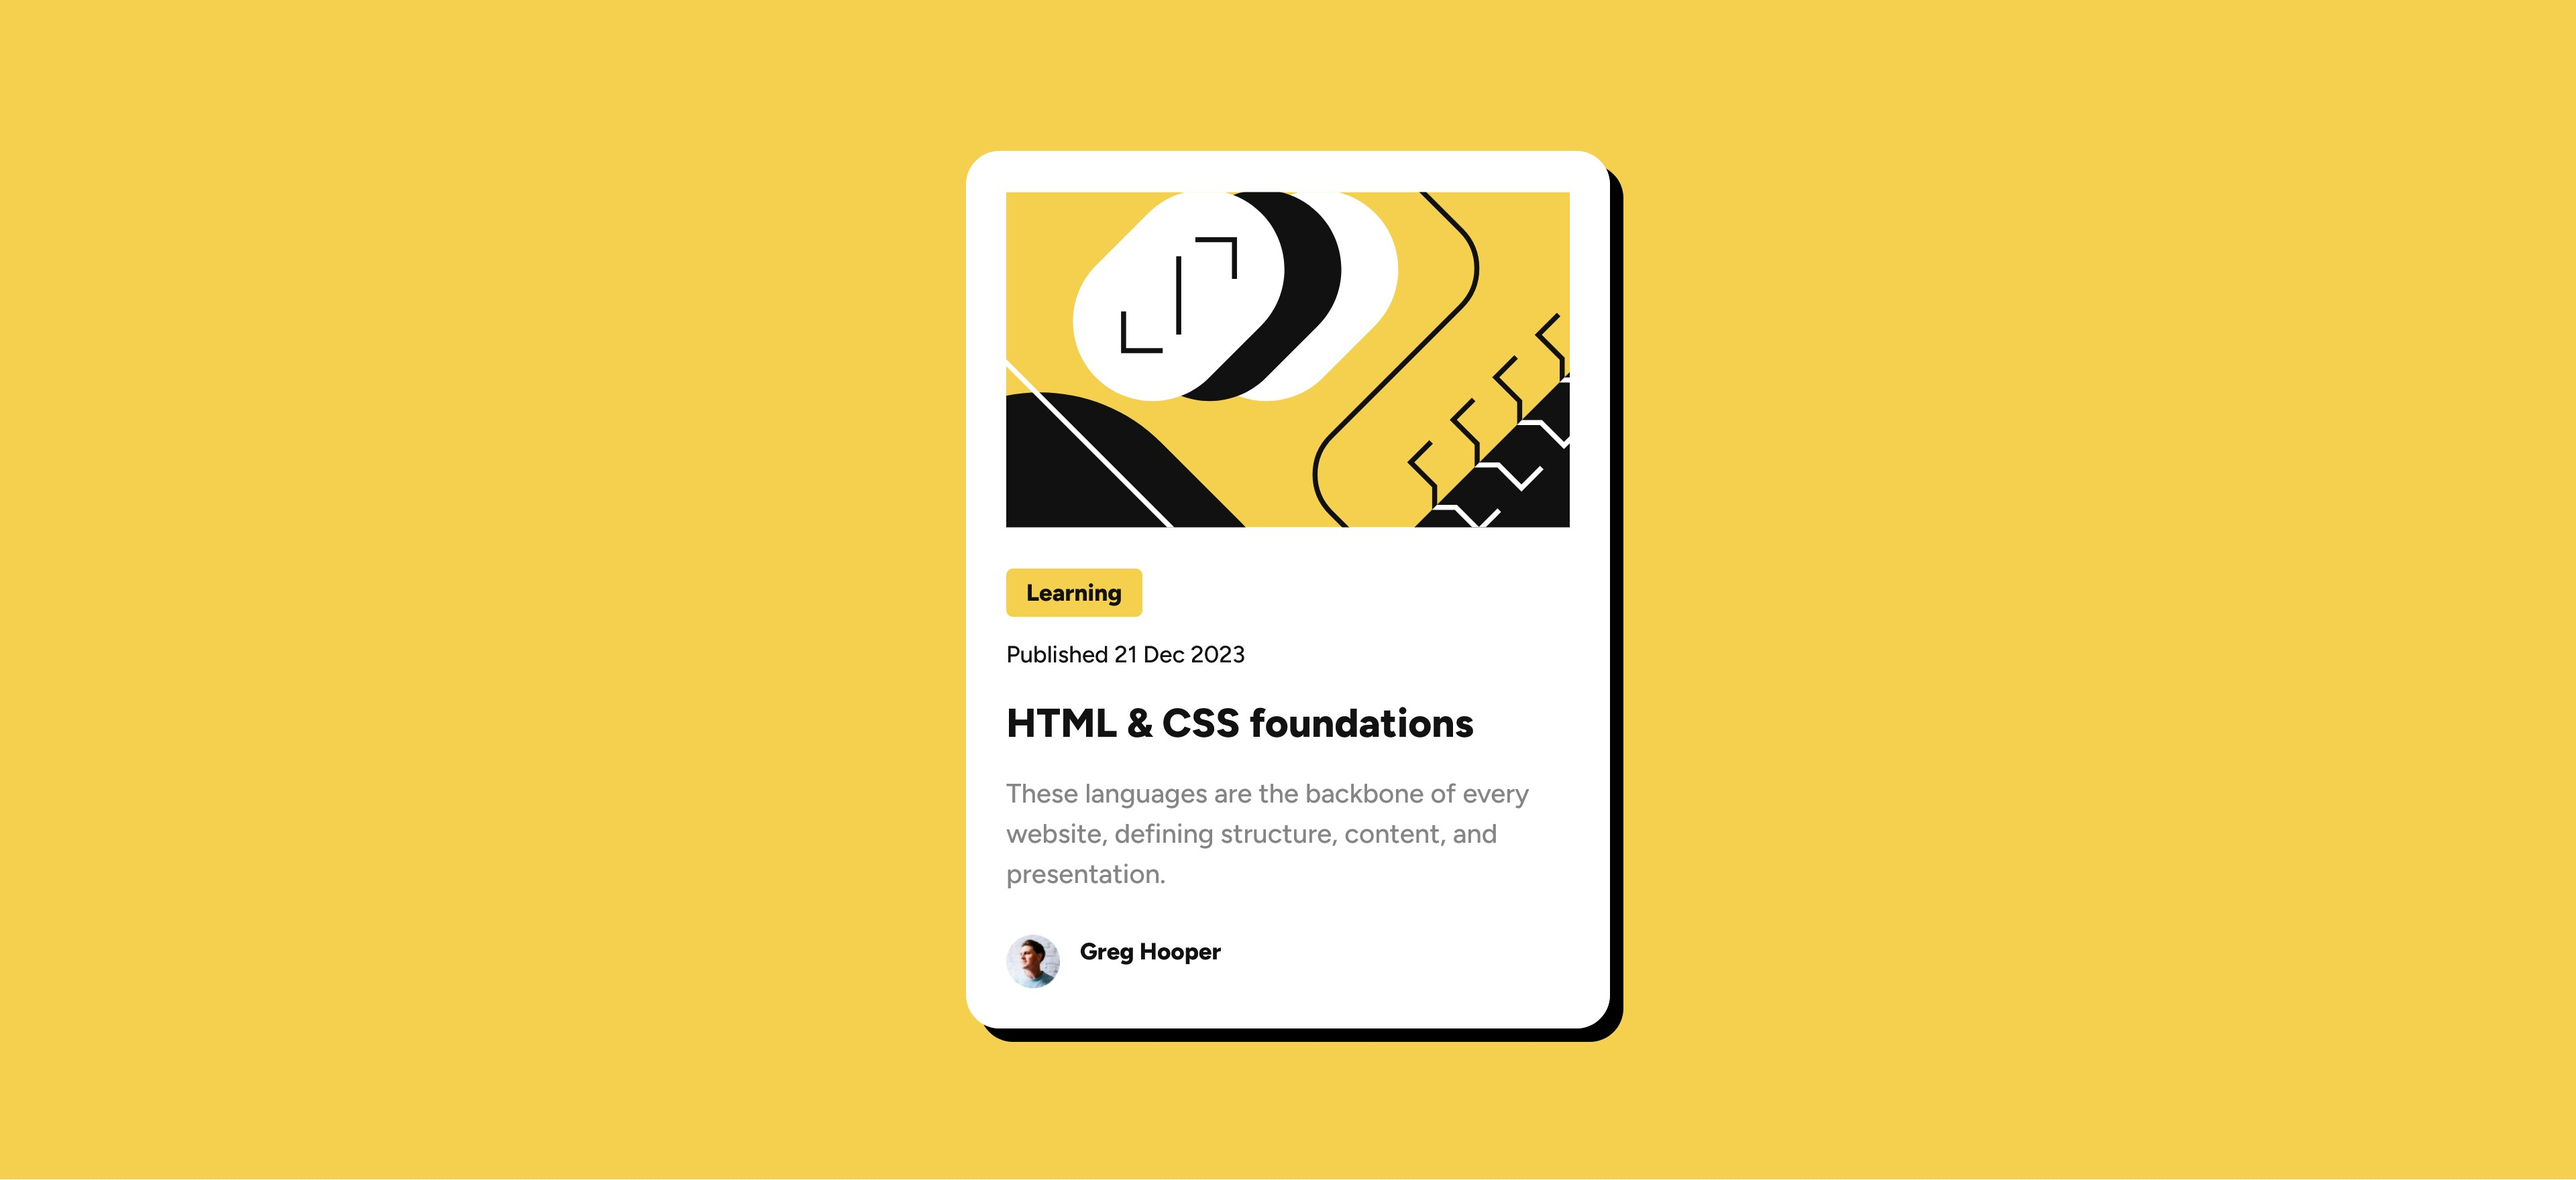
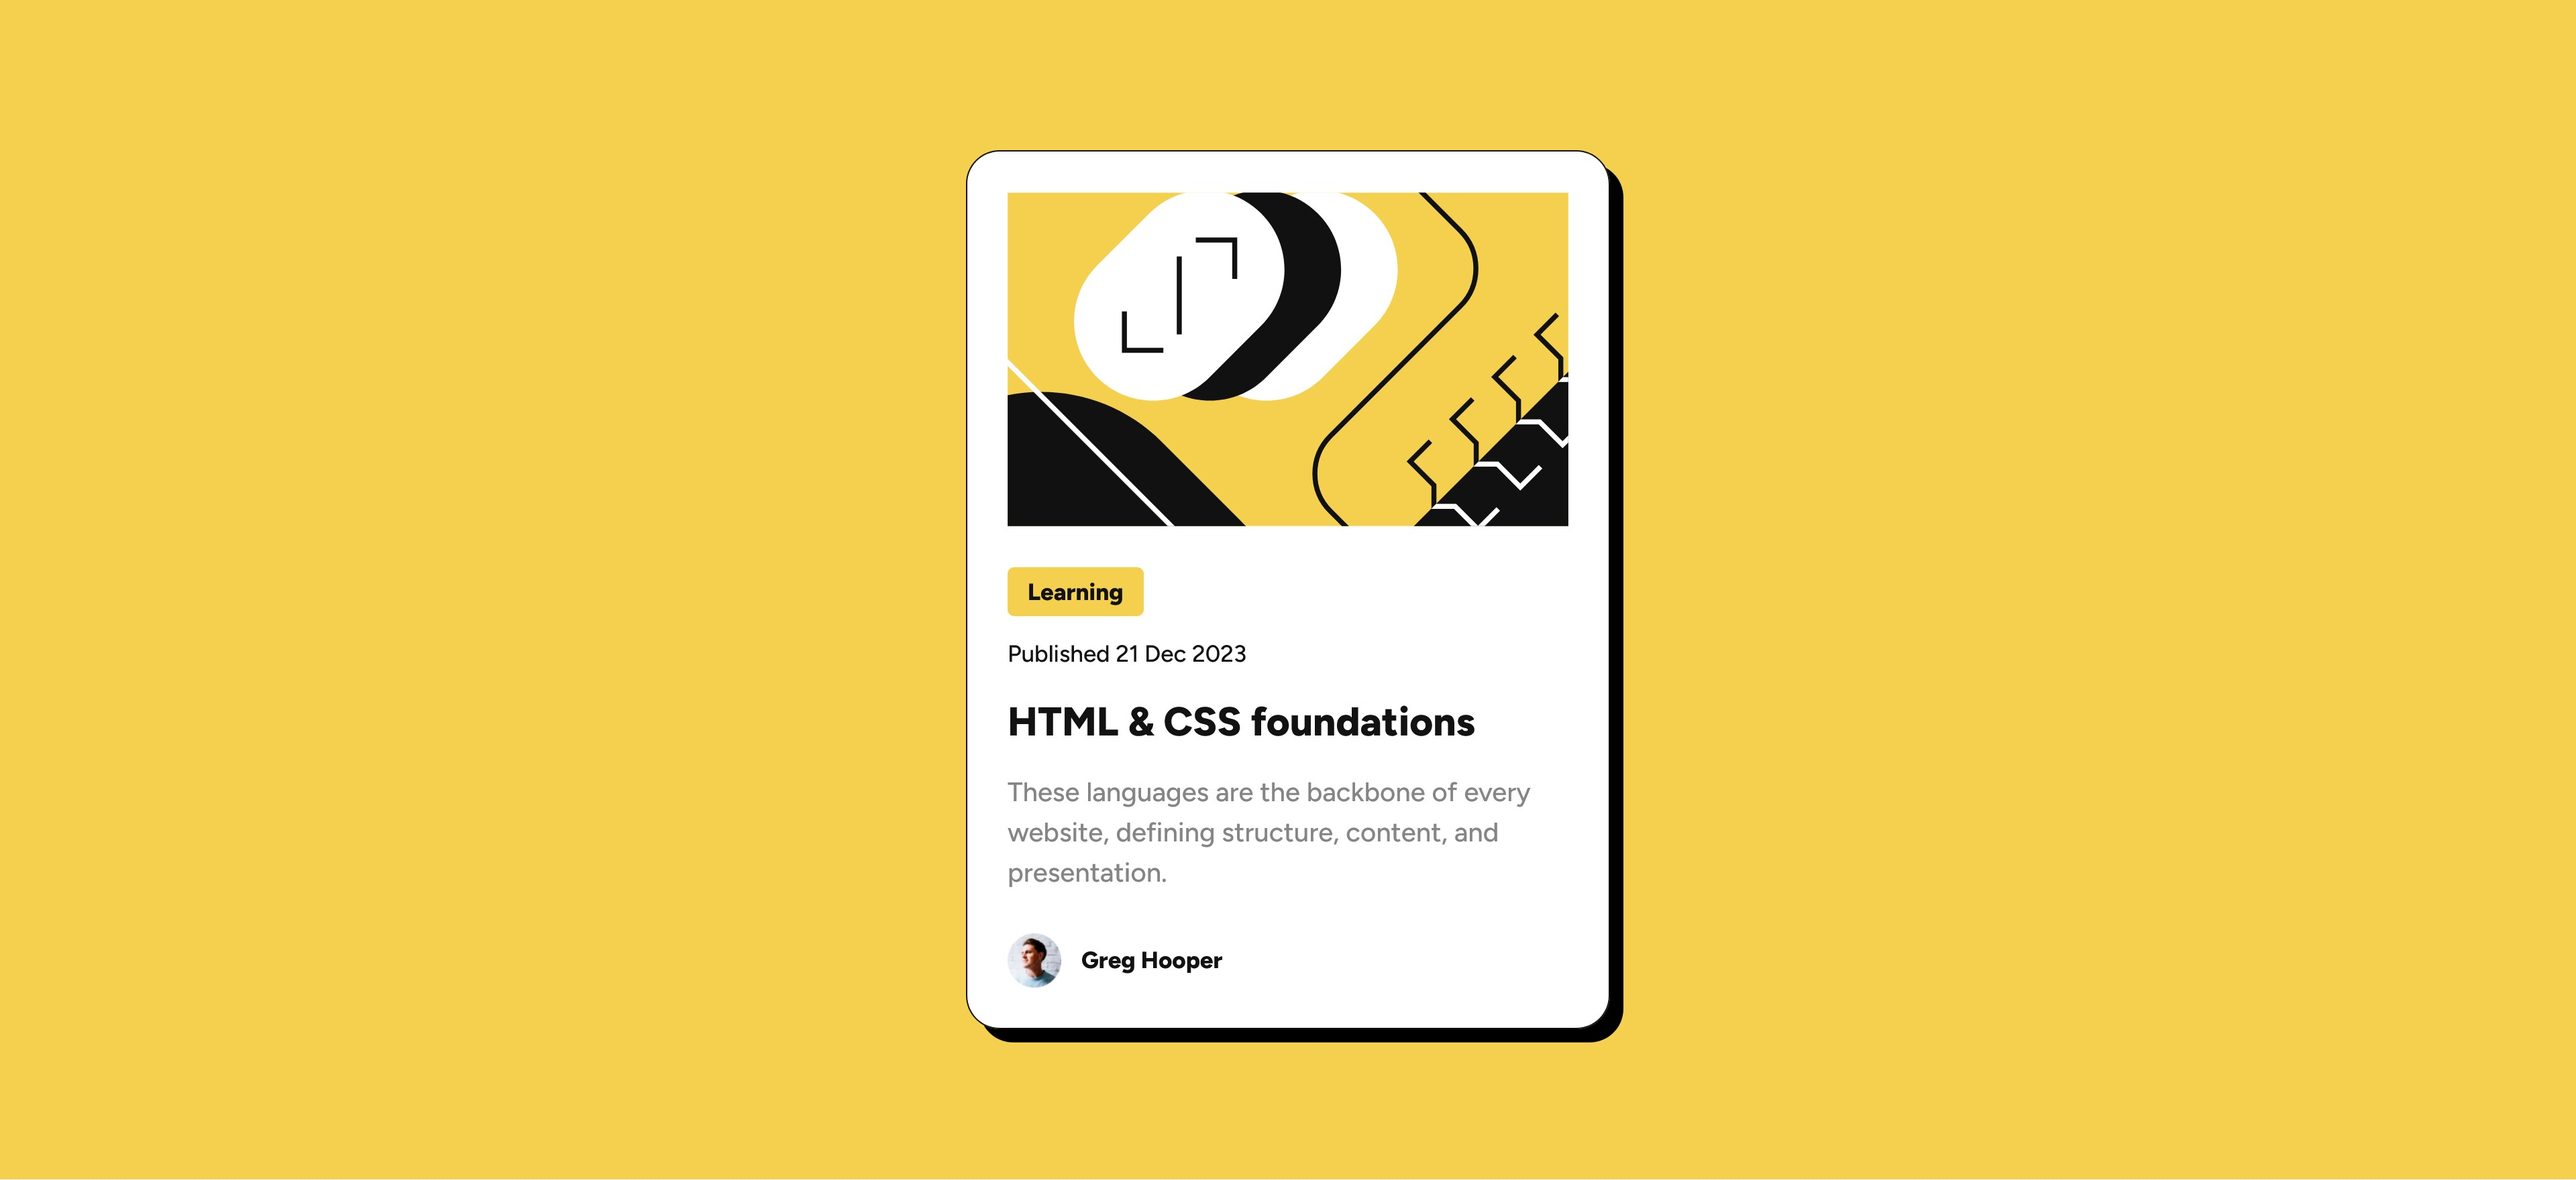
Initial commit

diff --git a/assets/styles/style.css b/assets/styles/style.css
@@ -85,6 +85,7 @@ article{
     background-color: var(--White);
     max-width: 384px;
     border-radius: 2rem;
+    border: 0.1rem solid var(--Gray-950);
     box-shadow: 0.8rem 0.8rem 0 0 rgba(0, 0, 0, 100%);
 }
 
@@ -92,15 +93,12 @@ figure{
     padding: 2.4rem;
 }
 
-span{
-    align-self: flex-start;
-}
-
 .category{
     background-color: var(--Yellow);
     border-radius: 0.4rem;
     padding: 0.4rem 1.2rem;
     margin: 0 0 1.2rem;
+    align-self: flex-start;
 }
 
 .author{
